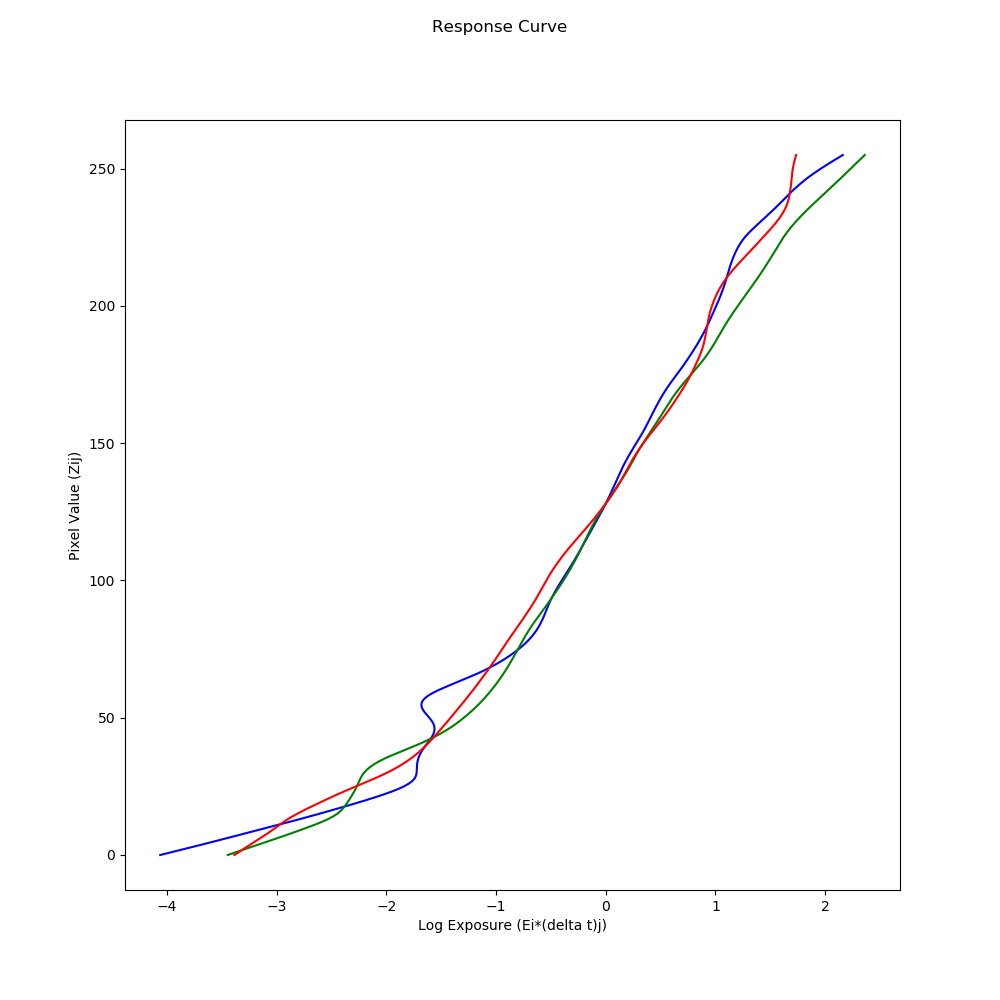
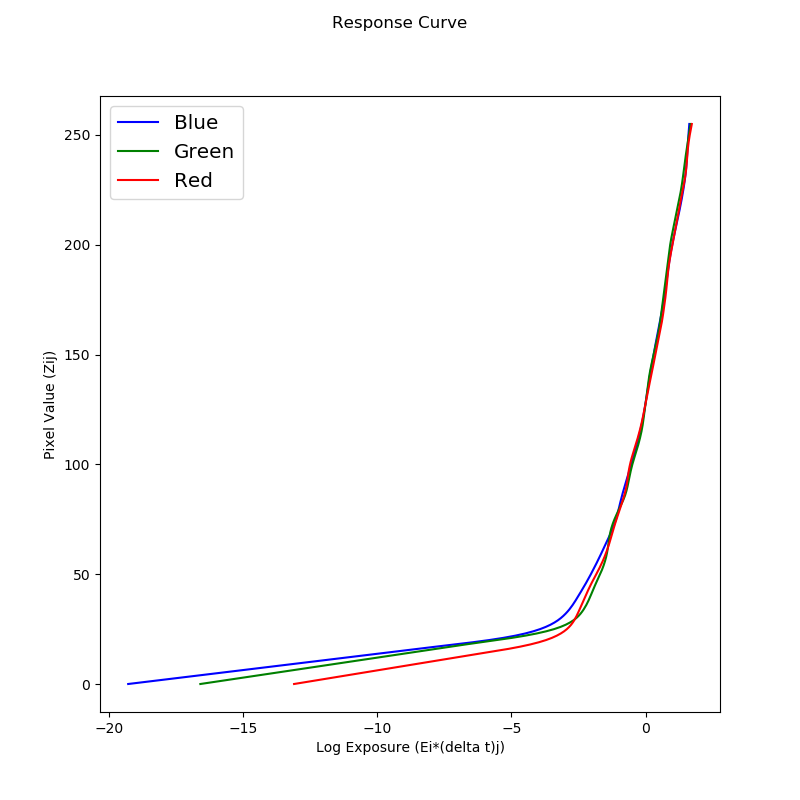
update memorial

diff --git a/python_ver/HDR.py b/python_ver/HDR.py
@@ -45,13 +45,14 @@ def gsolve(Z, B, l, w):
     return g, lE
 
 def PlotResponseCurve(gList):
-    plt.figure(figsize=(10, 10))
-    plt.plot(gList[0], range(256),color = 'blue')
-    plt.plot(gList[1], range(256),color = 'green')
-    plt.plot(gList[2], range(256),color = 'red')
+    plt.figure(figsize=(8, 8))
+    blueline, = plt.plot(gList[0], range(256),color = 'blue')
+    greenline, = plt.plot(gList[1], range(256),color = 'green')
+    redline, = plt.plot(gList[2], range(256),color = 'red')
     plt.suptitle('Response Curve')
     plt.ylabel('Pixel Value (Zij)')
     plt.xlabel('Log Exposure (Ei*(delta t)j)')
+    plt.legend(handles=[blueline, greenline, redline], labels = ['Blue', 'Green', 'Red'], loc = 'best', fontsize = 'x-large')
     plt.savefig('RC.png')
 
 
